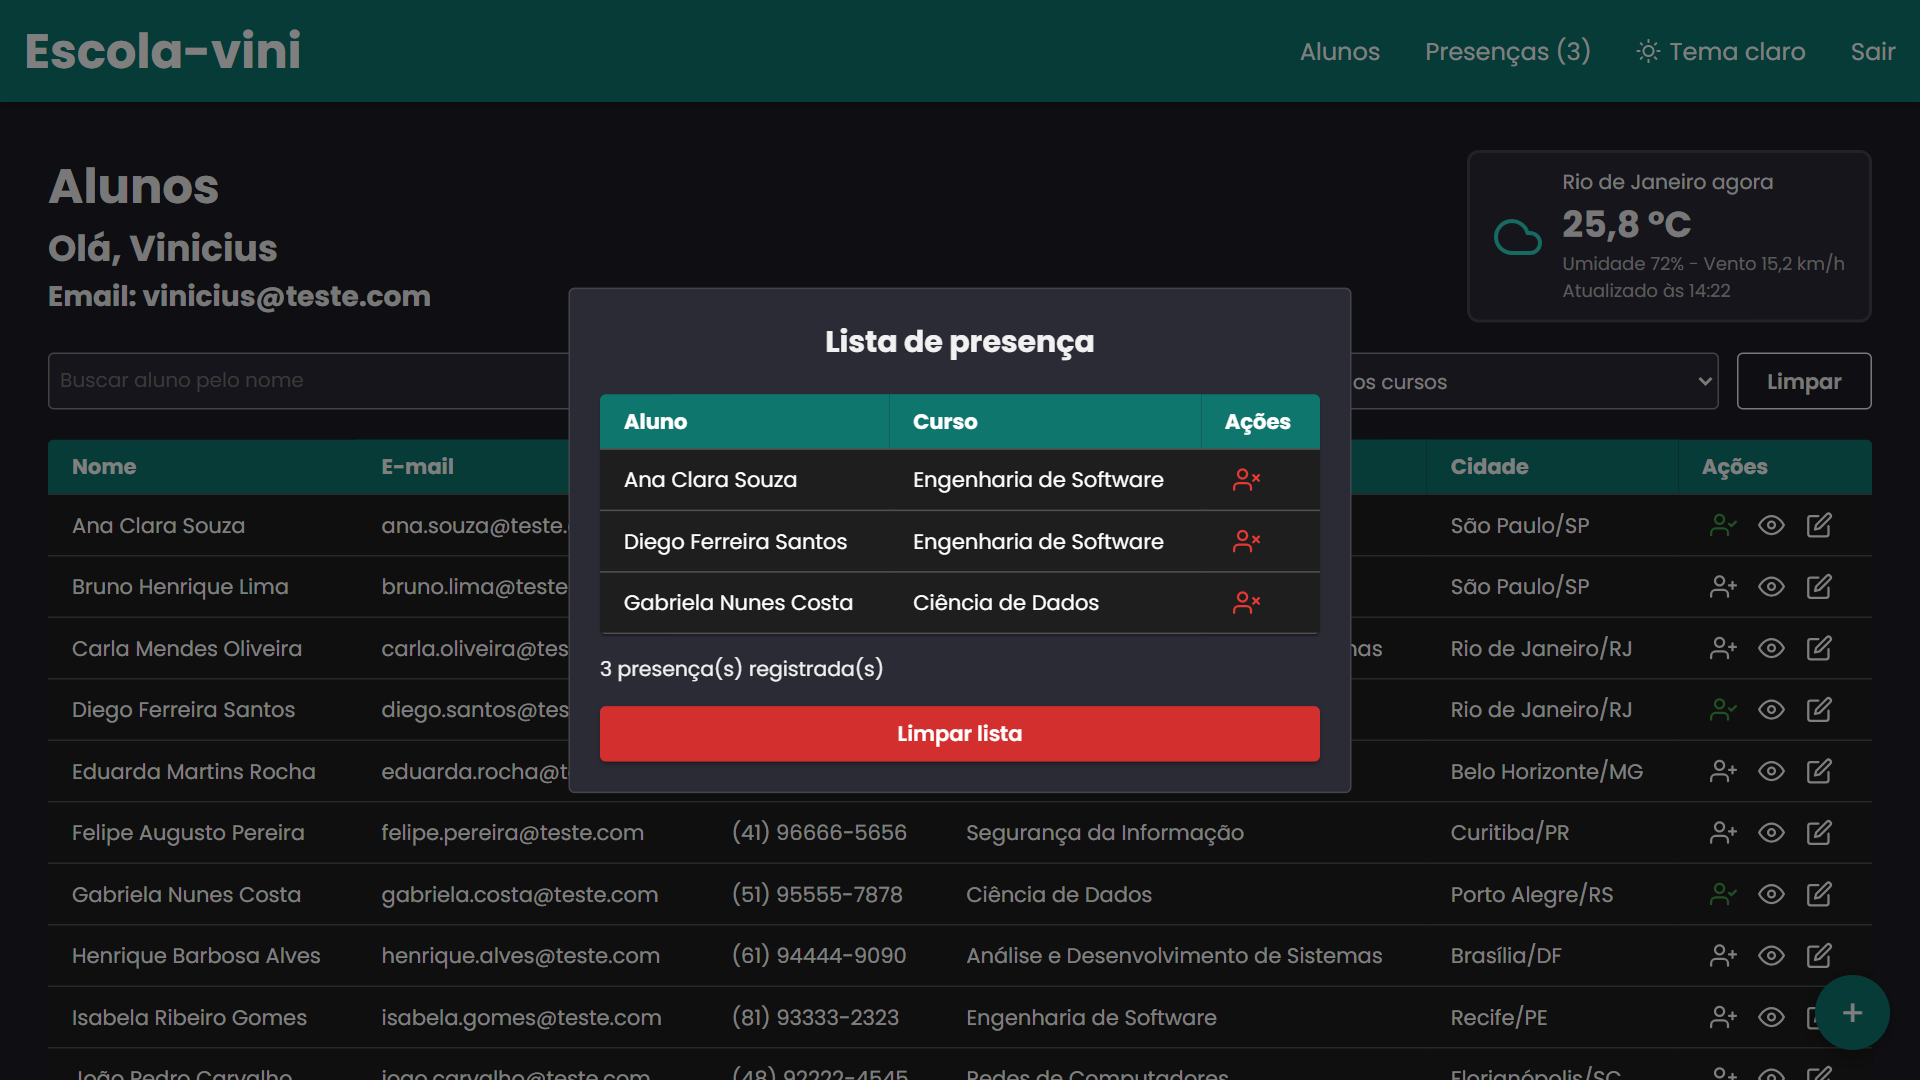
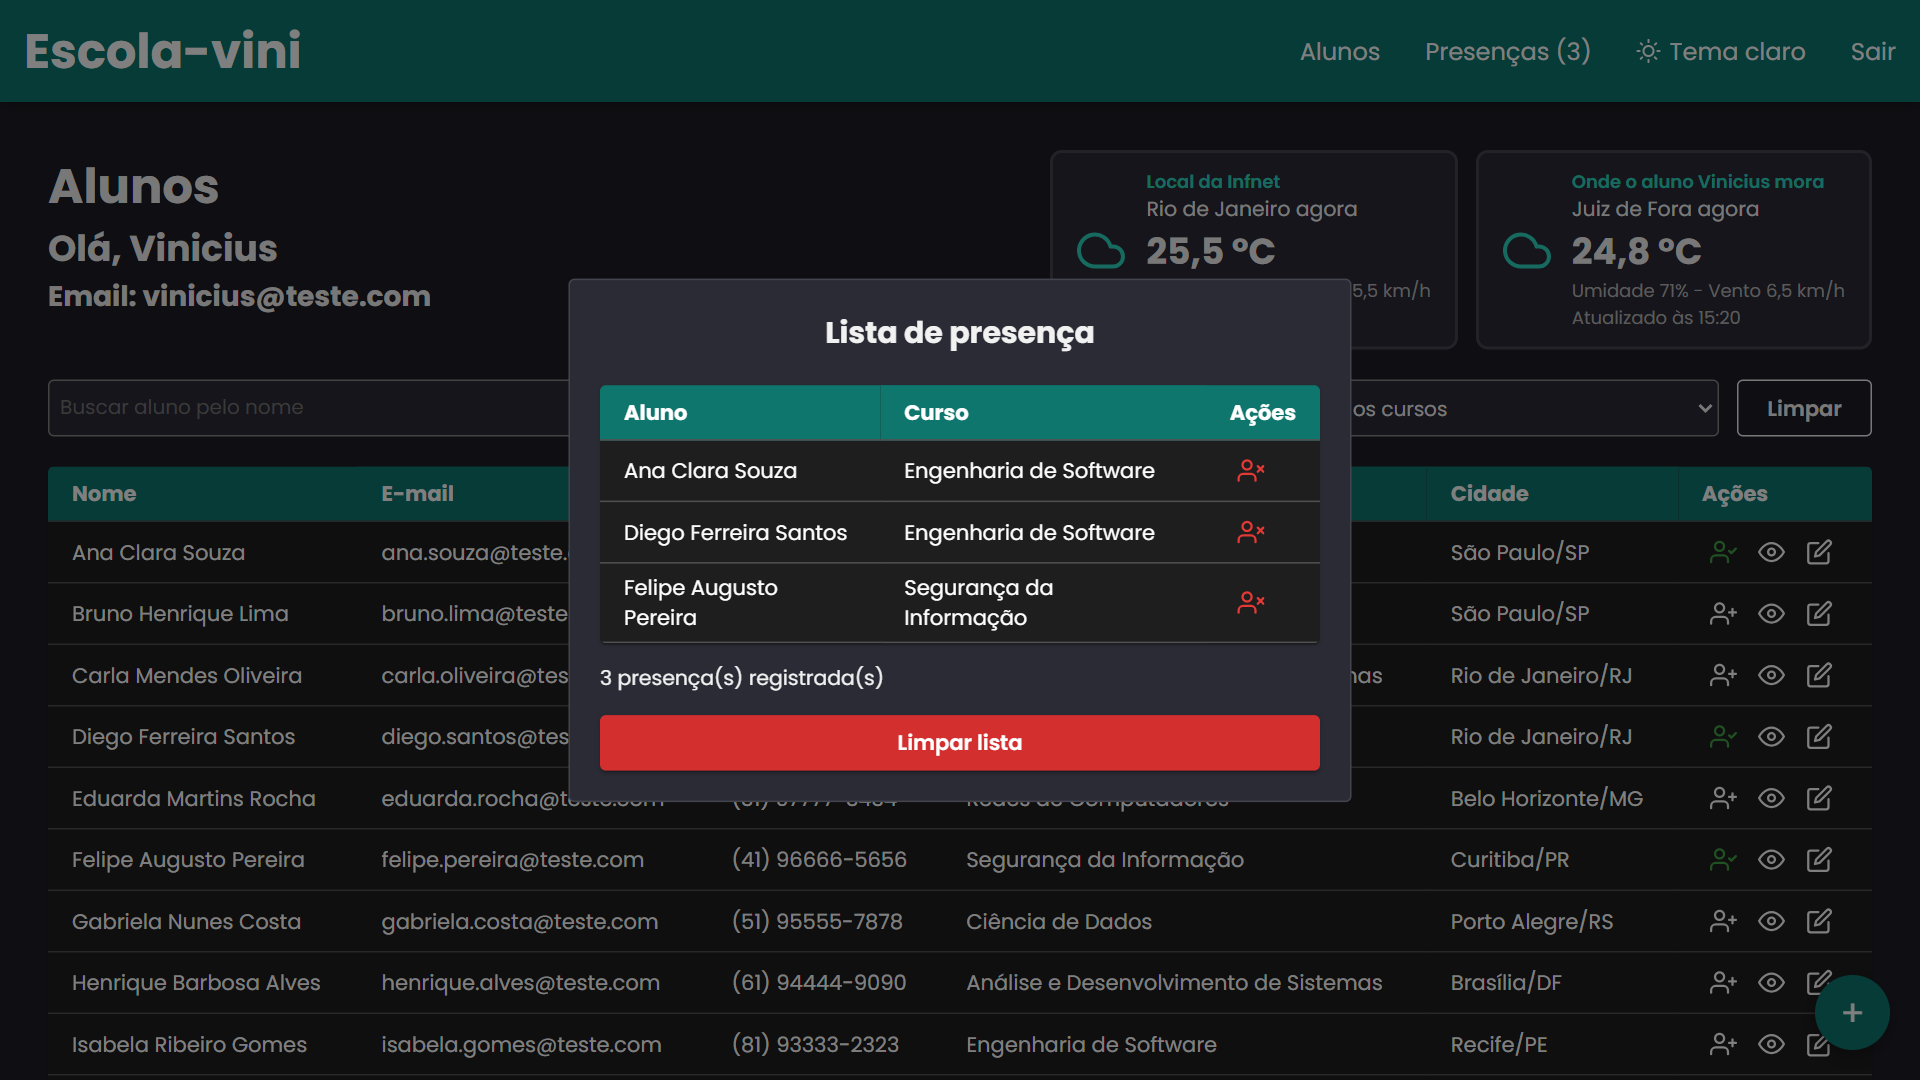
docs: atualiza o README e as telas com o clima das duas cidades
O README passa a citar os dois cartões de clima (Rio de Janeiro e Juiz de
Fora) e as imagens antigas da pasta screenshots foram trocadas pelas do
formulário e da página de alunos como estão agora.

Changed region(s): [[0.0, 0.1528, 1.0, 1.0], [0.7812, 0.1528, 0.9688, 0.3056], [0.6875, 0.5806, 0.7188, 0.6417]]

diff --git a/README.md b/README.md
@@ -2,7 +2,7 @@
 
 Sistema de gestão escolar com CRUD completo de alunos, feito em **React + TypeScript** (Vite) e com uma API em **Express**. É o Projeto de Disciplina de React da pós-graduação do Instituto Infnet.
 
-Quem usa é a secretaria da escola: faz login, vê a lista de alunos, cadastra, consulta os detalhes, edita, exclui e marca a presença do dia. O endereço do aluno é preenchido sozinho a partir do CEP e a página inicial mostra o clima do momento.
+Quem usa é a secretaria da escola: faz login, vê a lista de alunos, cadastra, consulta os detalhes, edita, exclui e marca a presença do dia. O endereço do aluno é preenchido sozinho a partir do CEP e a página inicial mostra o clima do momento em duas cidades: o Rio de Janeiro, onde fica a Infnet, e Juiz de Fora, onde eu moro.
 
 ![Página de alunos](./screenshots/home.png)
 
@@ -30,7 +30,7 @@ Quem usa é a secretaria da escola: faz login, vê a lista de alunos, cadastra, 
 - **Busca de CEP**: ao digitar o CEP, logradouro, bairro, cidade e UF são preenchidos pelo ViaCEP.
 - **Detalhes, edição e exclusão** em páginas próprias. A exclusão pede confirmação mostrando o nome do aluno.
 - **Lista de presença**: marca e desmarca direto na tabela, com contador no cabeçalho.
-- **Clima do dia** na página inicial, atualizado sozinho a cada 5 minutos.
+- **Clima do dia** na página inicial, em dois cartões lado a lado (Rio de Janeiro e Juiz de Fora), atualizados sozinhos a cada 5 minutos.
 - **Tema claro e escuro**, que continua salvo depois de fechar o navegador.
 - **Avisos** de sucesso e de erro em todas as ações.
 
